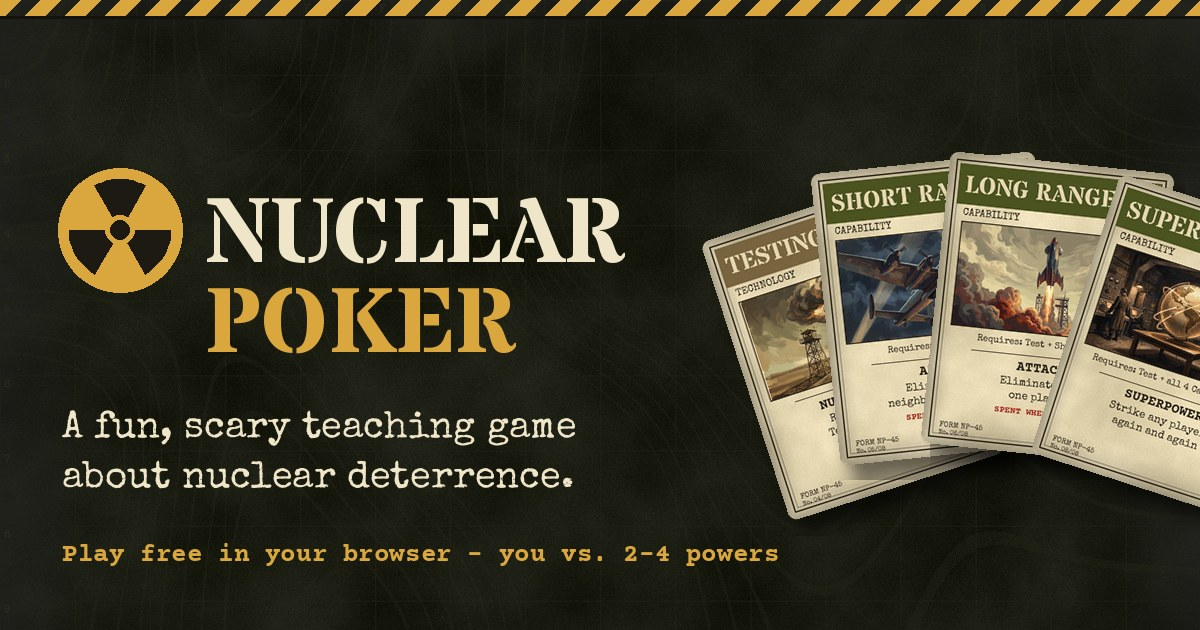
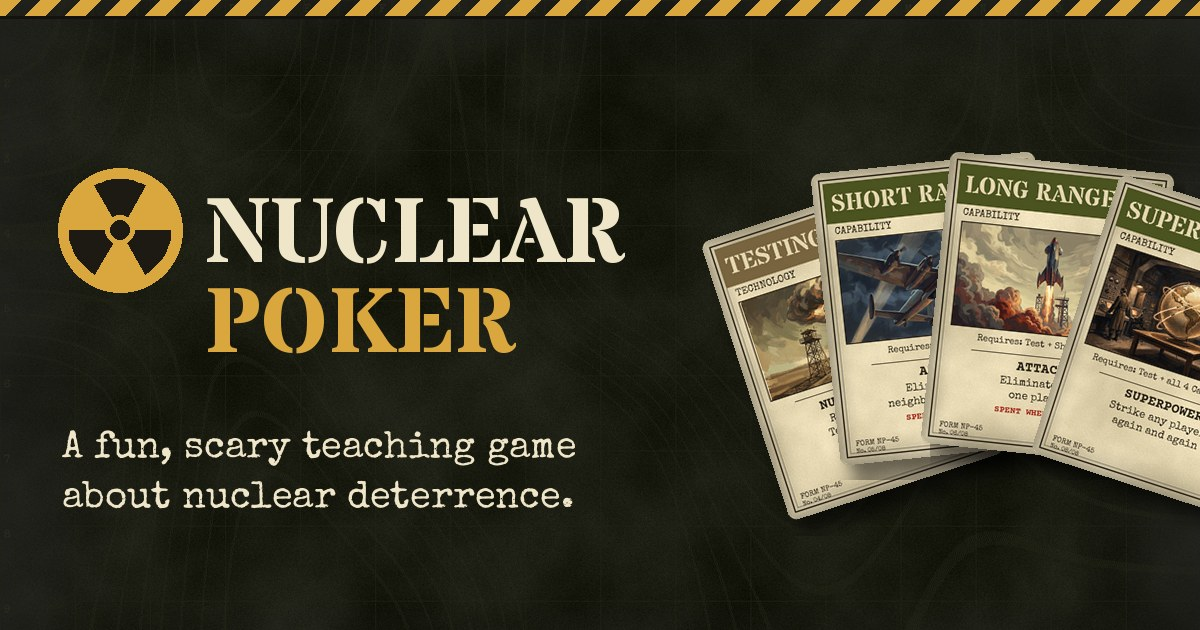
Link preview: drop the "play free in your browser" line from the picture and description
Claude-Session: https://claude.ai/code/session_01SuLDMKDUEF5Nydzbng6Eun

diff --git a/tools/social_card.py b/tools/social_card.py
@@ -62,9 +62,8 @@ def main():
     trefoil(d, 120, 230, 62)
     d.text((205, 172), "NUCLEAR", font=font("StardosStencil-Bold.ttf", 92), fill=INK)
     d.text((205, 262), "POKER", font=font("StardosStencil-Bold.ttf", 92), fill=AMBER)
-    d.text((62, 410), "A fun, scary teaching game", font=font("SpecialElite-Regular.ttf", 38), fill=INK)
-    d.text((62, 460), "about nuclear deterrence.", font=font("SpecialElite-Regular.ttf", 38), fill=INK)
-    d.text((62, 540), "Play free in your browser - you vs. 2-4 powers", font=font("CourierPrime-Bold.ttf", 26), fill=AMBER)
+    d.text((62, 430), "A fun, scary teaching game", font=font("SpecialElite-Regular.ttf", 38), fill=INK)
+    d.text((62, 480), "about nuclear deterrence.", font=font("SpecialElite-Regular.ttf", 38), fill=INK)
     os.makedirs(os.path.join(ROOT, "web"), exist_ok=True)
     out = os.path.join(ROOT, "web", "social.jpg")
     img.convert("RGB").save(out, quality=88)
